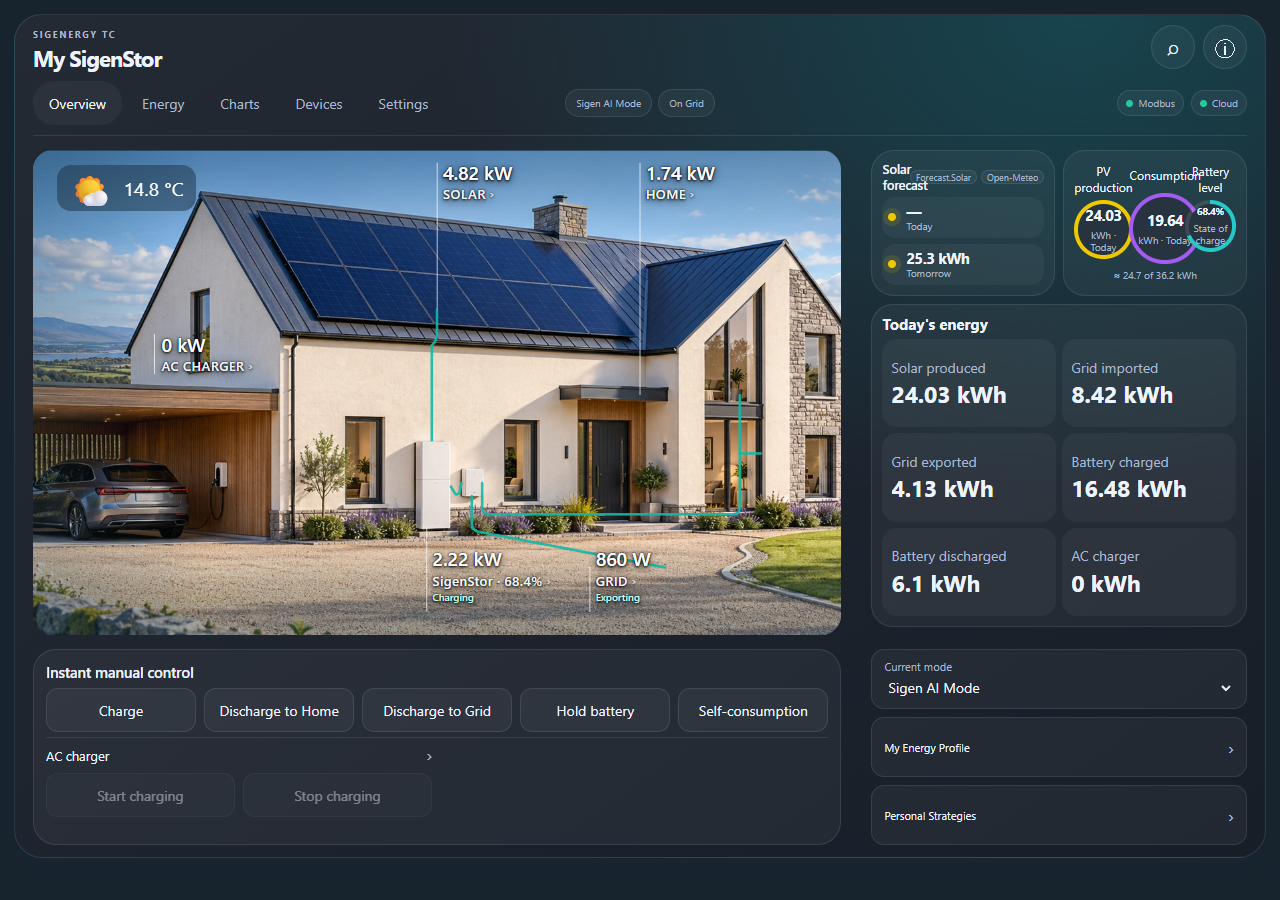
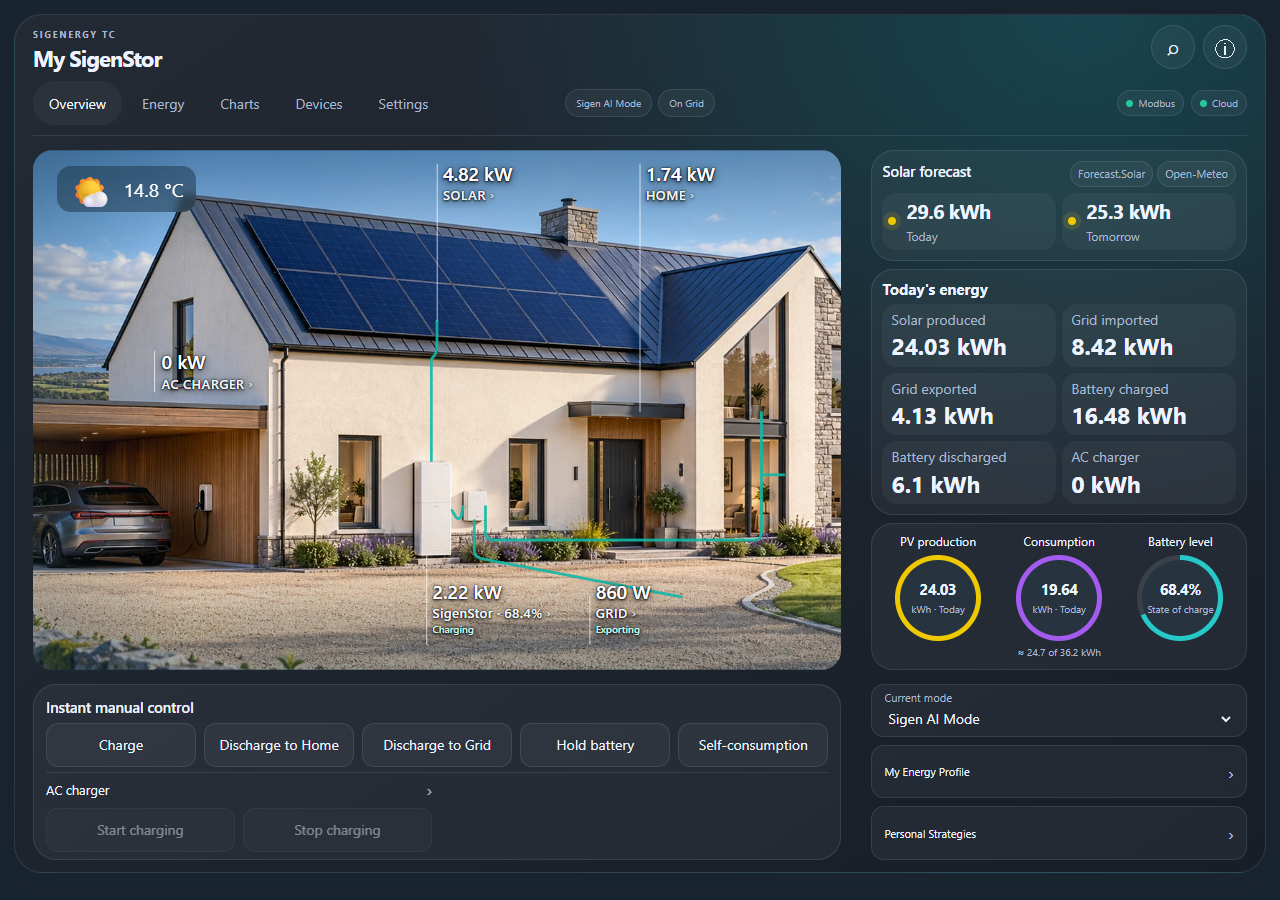
Fix tablet sidebar sizing and screenshot layout in Alpha 0.2.1 (#3)

diff --git a/custom_components/sigen_hybrid/frontend/sigen-hybrid-navigation.js b/custom_components/sigen_hybrid/frontend/sigen-hybrid-navigation.js
@@ -1,11 +1,11 @@
 /* SPDX-License-Identifier: GPL-3.0-only */
-import { renderDeviceDetail, solarStringSeries, DETAIL_STYLE } from './sigen-hybrid-details.js?v=0.2.0';
-import { renderSettingsDetail, collectSettings, SETTINGS_STYLE, SETTINGS_ROUTES, CHART_CHOICES, DEFAULT_CHART_SELECTION, DISPLAY_MODULES, DISPLAY_PRESETS, HOMEPAGE_APPEARANCES, HOMEPAGE_BACKGROUNDS, homepageBackground, displayDefaults, encodeChargerScheduleId, decodeChargerScheduleId, bindTariffEditor, bindStrategyEditor, OPERATING_MODES, observedOperatingMode, renderOverviewModeControl, strategyExportEligibility } from './sigen-hybrid-settings.js?v=0.2.0';
-import { periodRange, dateAt, shiftDate, toCSV, preserveChartScroll } from './sigen-hybrid-charts.js?v=0.2.0';
-import { renderSummaryWidget, renderSummaryDetail, WIDGET_ROUTES, WIDGET_STYLE } from './sigen-hybrid-widgets.js?v=0.2.0';
-import { ENERGY_ROUTES, renderEnergyProfile, ENERGY_STYLE, ownerSettingTarget, renderOwnerSetting, collectOwnerSetting, bindOwnerSettingForm } from './sigen-hybrid-energy.js?v=0.2.0';
-import { renderChargingEnergy, renderTodayEnergy, renderBatteryLevel, renderMobilePower, renderChargerControls } from './sigen-hybrid-overview.js?v=0.2.0';
-import { modeChoices, selectedMode, nativeModeChoices } from './sigen-hybrid-settings.js?v=0.2.0';
+import { renderDeviceDetail, solarStringSeries, DETAIL_STYLE } from './sigen-hybrid-details.js?v=0.2.1';
+import { renderSettingsDetail, collectSettings, SETTINGS_STYLE, SETTINGS_ROUTES, CHART_CHOICES, DEFAULT_CHART_SELECTION, DISPLAY_MODULES, DISPLAY_PRESETS, HOMEPAGE_APPEARANCES, HOMEPAGE_BACKGROUNDS, homepageBackground, displayDefaults, encodeChargerScheduleId, decodeChargerScheduleId, bindTariffEditor, bindStrategyEditor, OPERATING_MODES, observedOperatingMode, renderOverviewModeControl, strategyExportEligibility } from './sigen-hybrid-settings.js?v=0.2.1';
+import { periodRange, dateAt, shiftDate, toCSV, preserveChartScroll } from './sigen-hybrid-charts.js?v=0.2.1';
+import { renderSummaryWidget, renderSummaryDetail, WIDGET_ROUTES, WIDGET_STYLE } from './sigen-hybrid-widgets.js?v=0.2.1';
+import { ENERGY_ROUTES, renderEnergyProfile, ENERGY_STYLE, ownerSettingTarget, renderOwnerSetting, collectOwnerSetting, bindOwnerSettingForm } from './sigen-hybrid-energy.js?v=0.2.1';
+import { renderChargingEnergy, renderTodayEnergy, renderBatteryLevel, renderMobilePower, renderChargerControls } from './sigen-hybrid-overview.js?v=0.2.1';
+import { modeChoices, selectedMode, nativeModeChoices } from './sigen-hybrid-settings.js?v=0.2.1';
 
 const escape = value => String(value ?? '').replace(/[&<>"']/g, c => ({ '&':'&amp;', '<':'&lt;', '>':'&gt;', '"':'&quot;', "'":'&#39;' })[c]);
 
@@ -335,25 +335,8 @@ main:has(>.compact-overview)>.overview-preview-toolbar button{min-height:26px;pa
 .compact-overview .overview-side-module .tile{padding:7px;min-height:42px}
 .compact-overview .overview-side-module .tile strong{font-size:17px}
 .compact-overview .overview-side-module .tile small{font-size:10px}
-.compact-overview .overview-summary-stack{grid-template-columns:repeat(2,minmax(0,1fr));grid-template-rows:auto minmax(0,1fr);gap:8px}
-.compact-overview .overview-summary-stack>.overview-side-module:first-child{grid-column:1;grid-row:1}
-.compact-overview .overview-summary-stack>.overview-side-module:nth-child(2){grid-column:1/-1;grid-row:2}
-.compact-overview .overview-summary-stack>.overview-side-module:nth-child(3){grid-column:2;grid-row:1}
-.compact-overview .overview-summary-stack>.overview-side-module:first-child>.panel{padding:6px}
-.compact-overview .overview-summary-stack>.overview-side-module:first-child .section-title{display:grid;grid-template-columns:minmax(0,1fr) auto;gap:2px;margin-bottom:4px}
-.compact-overview .overview-summary-stack>.overview-side-module:first-child h2{font-size:13px;margin:0}
-.compact-overview .overview-summary-stack>.overview-side-module:first-child .detail-launch{grid-column:2;grid-row:1;min-height:20px;padding:0 3px;line-height:1.2}
-.compact-overview .overview-summary-stack>.overview-side-module:first-child .badge{grid-column:1/-1;grid-row:2;justify-self:start;font-size:9px;padding:1px 5px;line-height:1.2}
-.compact-overview .overview-summary-stack>.overview-side-module:first-child .mini-grid{grid-template-columns:minmax(0,1fr)}
-.compact-overview .overview-summary-stack>.overview-side-module:first-child .tile{min-height:0;padding:3px;gap:5px}
-.compact-overview .overview-summary-stack>.overview-side-module:first-child .tile>span{display:grid;gap:1px}
-.compact-overview .overview-summary-stack>.overview-side-module:first-child .tile strong{font-size:15px;line-height:1.15;margin:0}
-.compact-overview .overview-summary-stack>.overview-side-module:first-child .tile small{font-size:10px;line-height:1.1;margin:0}
-.compact-overview .overview-summary-stack .overview-circle-grid{gap:4px}
-.compact-overview .overview-summary-stack .overview-circle-panel{height:100%;display:flex;flex-direction:column;justify-content:center}
-.compact-overview .overview-summary-stack .overview-circle-label{font-size:9px;min-height:24px}
-.compact-overview .overview-summary-stack .overview-summary-ring{padding:4px}
-.compact-overview .overview-summary-stack .overview-ring-centre small{font-size:7px}
+.compact-overview .overview-summary-stack{grid-template-columns:minmax(0,1fr);grid-template-rows:auto minmax(0,1fr) auto;gap:8px}
+.compact-overview .overview-summary-stack>.overview-side-module{grid-column:auto;grid-row:auto}
 .compact-overview .overview-energy-metric{min-height:42px;padding:5px 7px}
 .compact-overview .overview-energy-metric small{font-size:10px;line-height:1.15;margin-bottom:3px}
 .compact-overview .overview-energy-metric strong{font-size:16px}
@@ -421,6 +404,13 @@ ha-card.embedded-shell{--sigen-sticky-offset:0px;border-radius:16px!important;he
 .compact-overview.overview-grid.overview-aligned-controls{grid-template-rows:minmax(0,1fr) 196px!important}.compact-overview.overview-aligned-controls>.hero{grid-template-rows:subgrid!important}.compact-overview .main-display-stage[data-display=photo],.compact-overview .main-display-stage[data-display=flow]{max-height:none;align-self:stretch}.compact-overview .overview-summary-stack{grid-template-rows:auto minmax(0,1fr) auto}.compact-overview .overview-side-module>.panel{padding:10px!important}.compact-overview .overview-forecast-panel .mini-grid{gap:8px}.compact-overview .overview-energy-metric{min-height:48px;padding:7px 9px}.compact-overview .overview-energy-metric small{font-size:14px;line-height:1.3}.compact-overview .overview-energy-metric strong{font-size:23px}.compact-overview .overview-summary-ring{max-width:86px!important}.compact-overview .overview-circle-label{font-size:12px!important}.compact-overview .overview-circle-panel{padding:10px!important}.compact-overview .overview-primary-controls>.panel{padding:12px!important}.compact-overview .overview-charger-controls{margin-top:5px;padding-top:5px}.compact-overview .overview-charger-heading{padding-bottom:6px}.compact-overview .overview-device-links{grid-template-rows:repeat(3,minmax(0,1fr))!important}ha-card.embedded-shell>header{padding:10px 18px}ha-card.embedded-shell>header .eyebrow{display:none}ha-card.embedded-shell>header>div:first-child{display:flex;align-items:center;gap:12px}ha-card.embedded-shell>header h1{font-size:22px;margin:0}ha-card.embedded-shell>header .connection-strip{margin:0}.compact-overview [data-display-module=forecast] .tile{min-height:50px;padding:6px!important;gap:10px!important}.compact-overview [data-display-module=forecast] .tile strong{font-size:20px;line-height:24px}.compact-overview [data-display-module=forecast] .tile small{font-size:12px;line-height:16px}
 }
 
+/* Short landscape displays may scroll vertically; summary values must never overlap. */
+@media(max-height:900px){@container sigen-card (min-width:950px){
+ha-card:has(main[data-view=overview]>.compact-overview){height:auto;min-height:calc(100dvh - 56px)}
+.compact-overview.overview-grid.overview-aligned-controls{grid-template-rows:minmax(min-content,1fr) 176px!important}
+.compact-overview .overview-summary-stack{min-height:min-content;grid-template-rows:auto minmax(min-content,1fr) auto}
+.compact-overview .overview-side-module[data-display-module=today]{min-height:min-content}
+}}
 ha-card.standalone-card{height:auto!important;min-width:0;max-width:100%;display:block!important;border-radius:20px;overflow:hidden}ha-card.standalone-card>main{display:block!important;padding:0!important;min-width:0}ha-card.standalone-card main>.panel{border:0;background:transparent;margin:0;padding:16px}.standalone-card .mobile-power-grid{display:grid;grid-template-columns:repeat(2,minmax(0,1fr));gap:8px}.standalone-card .mobile-power-grid button{min-height:76px;border:1px solid var(--line);border-radius:14px;background:var(--surface);color:var(--ink);font:inherit;padding:12px;display:flex;flex-direction:column;align-items:flex-start;text-align:left;min-width:0}.standalone-card .mobile-power-grid span{font-size:13px;color:var(--muted)}.standalone-card .mobile-power-grid strong{font-size:23px}.standalone-card .mobile-power-grid small{font-size:12px;color:var(--muted)}.standalone-card .control-buttons{display:grid!important;grid-template-columns:repeat(auto-fit,minmax(130px,1fr))!important;gap:8px}.standalone-card .control-buttons button{font-size:14px!important;min-height:48px!important;line-height:1.3;padding:9px 10px}.standalone-card [data-controls-layout=vertical] .battery-control-buttons{grid-template-columns:1fr!important}.standalone-card [data-controls-layout=horizontal] .battery-control-buttons{grid-template-columns:repeat(auto-fit,minmax(100px,1fr))!important}.standalone-card [data-density=compact] .control-buttons button{min-height:44px!important;font-size:13px!important}.standalone-card [data-density=compact]>.panel{padding:12px}.standalone-card .overview-charger-controls{grid-template-columns:1fr;gap:12px}.standalone-card .overview-mode-control{font-size:14px;padding:12px}.standalone-card .overview-mode-control select{min-height:44px}.standalone-links{display:grid;grid-template-columns:repeat(2,minmax(0,1fr));gap:8px;margin-top:10px}.standalone-device-reading{display:grid;grid-template-columns:1fr 1fr auto;align-items:center;gap:12px;width:100%;font:inherit;background:var(--surface);color:var(--ink);border:1px solid var(--line);border-radius:14px;padding:14px;text-align:left}.standalone-device-reading span{min-width:0}.standalone-device-reading small{display:block;font-size:12px;color:var(--muted)}.standalone-device-reading strong{display:block;font-size:22px}.standalone-card .connection-strip{justify-content:space-between;margin:0}.standalone-card .connection-indicator{font-size:13px!important;min-height:44px!important;padding:10px!important;border:1px solid var(--line)!important;background:var(--surface)!important}.standalone-card .overview-circle-panel{margin:0}.standalone-card .overview-energy-metrics{grid-template-columns:repeat(2,minmax(0,1fr));gap:8px}.standalone-card .overview-energy-metric{min-height:78px}.standalone-card .overview-energy-metric small{font-size:13px}.standalone-card .overview-energy-metric strong{font-size:23px}.standalone-card .detail-link{min-height:44px}.standalone-card .mini-grid .tile{min-height:84px}.standalone-card .battery-summary{padding:4px 0}.standalone-card h2{font-size:19px}
 @container sigen-card (min-width:600px){.standalone-card .mobile-power-grid{grid-template-columns:repeat(3,minmax(0,1fr))}.standalone-card .overview-energy-metrics{grid-template-columns:repeat(3,minmax(0,1fr))}.standalone-card .overview-charger-controls{grid-template-columns:repeat(2,minmax(0,1fr))}}
 @container sigen-card (max-width:340px){.standalone-card .mobile-power-grid strong,.standalone-card .overview-energy-metric strong{font-size:19px}.standalone-card .overview-energy-metric small{font-size:12px}.standalone-card .battery-summary{gap:12px}.standalone-card .standalone-device-reading{grid-template-columns:1fr auto}.standalone-device-reading span:nth-child(2){grid-row:2}.standalone-card .overview-summary-ring{max-width:70px}.standalone-card .overview-ring-centre strong{font-size:13px!important}}

diff --git a/custom_components/sigen_hybrid/frontend/sigen-hybrid-overview.js b/custom_components/sigen_hybrid/frontend/sigen-hybrid-overview.js
@@ -117,7 +117,7 @@ export function renderBatteryLevel(ctx = {}) {
 }
 
 export const OVERVIEW_STYLE = `
-.overview-circle-grid>.overview-circle-button{display:grid}.overview-circle-grid{display:grid;grid-template-columns:repeat(3,minmax(0,1fr));gap:9px}.overview-circle-button{appearance:none;display:grid;align-content:start;justify-items:center;gap:10px;min-width:0;width:100%;border:0;background:transparent;color:inherit;padding:0;font:inherit;cursor:pointer}.overview-circle-label{font-size:11px;line-height:1.3;min-height:28px;text-align:center;display:grid;place-items:center}.overview-summary-ring{display:grid;place-items:center;width:100%;aspect-ratio:1;border-radius:50%;padding:8px;background:conic-gradient(var(--ring-tone) var(--ring-fill),var(--overview-track,#dce8ef) 0)}.overview-ring-centre{display:flex;flex-direction:column;align-items:center;justify-content:center;width:100%;height:100%;border-radius:50%;background:var(--overview-ring-bg,#f1f6fa);min-width:0;text-align:center}.overview-circle-panel .overview-summary-ring strong,.overview-circle-panel .overview-summary-ring .overview-battery-soc{font-size:clamp(10px,4.3cqi,19px);line-height:1.2;font-weight:650;letter-spacing:-.03em}.overview-ring-centre small{font-size:clamp(7px,2.5cqi,10px);margin-top:5px;line-height:1.2;color:var(--muted)}.overview-circle-panel .overview-circle-storage{font-size:11px;text-align:center;margin-top:12px;line-height:1.4}.night .overview-circle-panel{--overview-ring-bg:#27333f}.overview-circle-button:focus-visible{outline:2px solid #16bfc4;outline-offset:4px;border-radius:12px}.overview-summary-ring.is-unavailable{background:var(--overview-track,#dce8ef)}@container(max-width:240px){.overview-circle-grid{gap:5px}.overview-summary-ring{padding:5px}.overview-circle-label{font-size:9px}.overview-ring-centre small{font-size:7px}}
+.overview-circle-grid>.overview-circle-button{display:grid}.overview-circle-grid{display:grid;grid-template-columns:repeat(3,minmax(0,1fr));gap:9px}.overview-circle-button{appearance:none;display:grid;align-content:start;justify-items:center;gap:10px;min-width:0;width:100%;border:0;background:transparent;color:inherit;padding:0;font:inherit;cursor:pointer}.overview-circle-label{font-size:11px;line-height:1.3;min-height:28px;text-align:center;display:grid;place-items:center}.overview-summary-ring{display:grid;place-items:center;box-sizing:border-box;min-width:0;max-width:100%;width:100%;aspect-ratio:1;border-radius:50%;padding:8px;background:conic-gradient(var(--ring-tone) var(--ring-fill),var(--overview-track,#dce8ef) 0)}.overview-ring-centre{display:flex;flex-direction:column;align-items:center;justify-content:center;width:100%;height:100%;border-radius:50%;background:var(--overview-ring-bg,#f1f6fa);min-width:0;text-align:center}.overview-circle-panel .overview-summary-ring strong,.overview-circle-panel .overview-summary-ring .overview-battery-soc{font-size:clamp(10px,4.3cqi,19px);line-height:1.2;font-weight:650;letter-spacing:-.03em}.overview-ring-centre small{font-size:clamp(7px,2.5cqi,10px);margin-top:5px;line-height:1.2;color:var(--muted)}.overview-circle-panel .overview-circle-storage{font-size:11px;text-align:center;margin-top:12px;line-height:1.4}.night .overview-circle-panel{--overview-ring-bg:#27333f}.overview-circle-button:focus-visible{outline:2px solid #16bfc4;outline-offset:4px;border-radius:12px}.overview-summary-ring.is-unavailable{background:var(--overview-track,#dce8ef)}@container(max-width:240px){.overview-circle-grid{gap:5px}.overview-summary-ring{padding:5px}.overview-circle-label{font-size:9px}.overview-ring-centre small{font-size:7px}}
 .overview-energy-five>.overview-energy-metric:last-child{grid-column:1/-1}.overview-charging-total{padding:4px 0 24px}.overview-charging-total small{display:block;color:var(--muted,#748595);font-size:14px;margin-bottom:8px}.overview-charging-total strong{display:block;font-size:32px;line-height:1.2}.overview-charging-breakdown{display:grid;grid-template-columns:repeat(2,minmax(0,1fr));gap:14px}.overview-charging-breakdown:has(>.overview-charging-channel:only-child){grid-template-columns:1fr}.overview-charging-channel{min-width:0}.overview-charging-channel>sigen-history-chart{display:block;min-width:0;margin-top:14px}.overview-charging-breakdown .overview-energy-metric{width:100%;min-height:104px;padding:18px}.overview-charging-breakdown .overview-energy-metric small{font-size:15px}.overview-charging-breakdown .overview-energy-metric strong{font-size:25px}.night .overview-charging-detail{--overview-tile:#ffffff0b;--overview-tile-hover:#ffffff13}
 @container(max-width:700px){.overview-charging-breakdown{grid-template-columns:1fr}}
 .overview-compact-panel.panel{margin:0;padding:20px;border:1px solid var(--line,#dce7ee);border-radius:22px;background:var(--surface,#f8fcfe);color:var(--ink,#263647);box-shadow:none;min-width:0;box-sizing:border-box}.overview-compact-panel h2{font-size:19px;line-height:1.25;letter-spacing:0;font-weight:650;margin:0 0 16px}.overview-energy-metrics{display:grid;grid-template-columns:repeat(2,minmax(0,1fr));gap:10px}.overview-energy-metric{appearance:none;border:0;border-radius:15px;min-width:0;min-height:78px;padding:12px 13px;text-align:left;background:var(--overview-tile,#edf4f8);color:inherit;font:inherit;cursor:pointer;box-sizing:border-box}.overview-energy-metric small{display:block;color:var(--muted,#748595);font-size:12px;font-weight:450;line-height:1.3;margin:0 0 6px;overflow-wrap:anywhere}.overview-energy-metric strong{display:block;color:inherit;font-size:21px;font-weight:650;line-height:1.2;overflow-wrap:anywhere}.overview-energy-metric:focus-visible,.overview-battery-link:focus-visible{outline:2px solid #16bfc4;outline-offset:3px}.overview-energy-metric:hover{background:var(--overview-tile-hover,#e3eff4)}.overview-battery-link{appearance:none;display:block;width:100%;border:0;background:transparent;padding:0;text-align:left;color:inherit;font:inherit;cursor:pointer}.overview-battery-link h2{margin-bottom:15px}.overview-battery-soc{display:block;font-size:25px;line-height:1.2;font-weight:650}.overview-battery-track{height:12px;overflow:hidden;border-radius:8px;background:var(--overview-track,#dce8ef);margin:15px 0 12px}.overview-battery-track>span{display:block;height:100%;border-radius:inherit;background:linear-gradient(90deg,#1bbbbb,#6cded1)}.overview-battery-track>span[hidden]{display:none}.overview-battery-energy{display:block;font-size:14px;line-height:1.25;color:var(--muted,#748595);font-weight:400}.night .overview-compact-panel{--overview-tile:#ffffff0b;--overview-tile-hover:#ffffff13;--overview-track:#ffffff1a}.overview-compact-panel{container-type:inline-size}@container(max-width:250px){.overview-energy-metric{padding:11px 10px}.overview-energy-metric strong{font-size:18px}.overview-energy-metric small{font-size:11px}}@container(max-width:180px){.overview-energy-metrics{grid-template-columns:1fr}}

diff --git a/custom_components/sigen_hybrid/frontend/sigen-hybrid-card.js b/custom_components/sigen_hybrid/frontend/sigen-hybrid-card.js
@@ -20,14 +20,14 @@
  * OUT OF OR IN CONNECTION WITH THE SOFTWARE OR THE USE OR OTHER DEALINGS IN THE
  * SOFTWARE.
  */
-import { installNavigation, CARD_PRESETS, CARD_CHART_CHOICES } from './sigen-hybrid-navigation.js?v=0.2.0';
-import { WIDGET_ROUTES } from './sigen-hybrid-widgets.js?v=0.2.0';
-import { renderPhotoScene, PHOTO_STYLE } from './sigen-hybrid-photo.js?v=0.2.0';
-import { renderTodayEnergy, renderBatteryLevel, renderChargerControls, renderMobilePower, OVERVIEW_STYLE } from './sigen-hybrid-overview.js?v=0.2.0';
-import { energySankey as buildEnergySankey } from './sigen-hybrid-sankey.js?v=0.2.0';
-import { renderHouseScene, HOUSE_STYLE } from './sigen-hybrid-house.js?v=0.2.0';
-import { renderDeviceOverview, DEVICE_STYLE } from './sigen-hybrid-devices.js?v=0.2.0';
-import { gridConnectionStatus, connectionIndicators, selectReadingState } from './sigen-hybrid-energy.js?v=0.2.0';
+import { installNavigation, CARD_PRESETS, CARD_CHART_CHOICES } from './sigen-hybrid-navigation.js?v=0.2.1';
+import { WIDGET_ROUTES } from './sigen-hybrid-widgets.js?v=0.2.1';
+import { renderPhotoScene, PHOTO_STYLE } from './sigen-hybrid-photo.js?v=0.2.1';
+import { renderTodayEnergy, renderBatteryLevel, renderChargerControls, renderMobilePower, OVERVIEW_STYLE } from './sigen-hybrid-overview.js?v=0.2.1';
+import { energySankey as buildEnergySankey } from './sigen-hybrid-sankey.js?v=0.2.1';
+import { renderHouseScene, HOUSE_STYLE } from './sigen-hybrid-house.js?v=0.2.1';
+import { renderDeviceOverview, DEVICE_STYLE } from './sigen-hybrid-devices.js?v=0.2.1';
+import { gridConnectionStatus, connectionIndicators, selectReadingState } from './sigen-hybrid-energy.js?v=0.2.1';
 export const MAIN_DISPLAYS = Object.freeze({ house: 'House', flow: 'Flow', photo: 'Photo house' });
 const COLORS = { solar: '#efc900', battery: '#26c9c8', grid: '#6694ff', home: '#a45bf0', ac: '#b46767', dc: '#d29420' };
 const LABELS = { solar: 'Solar', battery: 'Battery', grid: 'Grid', home: 'Home', ac: 'AC charger', dc: 'DC charger' };

diff --git a/tools/gallery.html b/tools/gallery.html
@@ -14,6 +14,6 @@ card.setConfig({type:'custom:sigen-hybrid-card',title:'My SigenStor',view:params
 card.hass={states,themes:{darkMode:true},config:{time_zone:'Europe/Dublin',currency:'EUR',unit_system:{temperature:'°C'}},locale:{language:'en',number_format:'language'},user:{is_admin:true},callWS:async()=>{throw Error('Offline documentation example');}};
 card._history=Object.fromEntries(Object.entries(entities).map(([key,id])=>[id,Array.from({length:144},(_,index)=>{const date=new Date();date.setHours(0,index*10,0,0);return {start:date.getTime(),mean:key==='battery_soc'?30+40*Math.sin(Math.PI*index/144)**2:key==='grid_power'?Math.sin(index/8):key==='battery_power'?2*Math.cos(index/12):key==='home_power'?1.6+.5*Math.sin(index/5):key==='solar_power'?Math.max(0,5*Math.sin(Math.PI*(index-36)/72)):0};})]));
 card._config.recorded_history=card._history;
-states[entities.forecast_today].attributes={available:true,series:card._history[entities.solar_power].map(row=>({start:new Date(row.start).toISOString(),end:new Date(row.start+600000).toISOString(),power_kw:row.mean*1.06}))};
+states[entities.forecast_today].attributes={...states[entities.forecast_today].attributes,available:true,series:card._history[entities.solar_power].map(row=>({start:new Date(row.start).toISOString(),end:new Date(row.start+600000).toISOString(),power_kw:row.mean*1.06}))};
 card._render();window.galleryReady=true;
 </script></html>

diff --git a/custom_components/sigen_hybrid/frontend/sigen-hybrid-details.js b/custom_components/sigen_hybrid/frontend/sigen-hybrid-details.js
@@ -1,8 +1,8 @@
 /* SPDX-License-Identifier: GPL-3.0-only
  * Pure device-detail views. Navigation, charts and data access belong to the host.
  */
-import { renderChargerButtons } from './sigen-hybrid-overview.js?v=0.2.0';
-import { renderDeviceGraphic } from './sigen-hybrid-devices.js?v=0.2.0';
+import { renderChargerButtons } from './sigen-hybrid-overview.js?v=0.2.1';
+import { renderDeviceGraphic } from './sigen-hybrid-devices.js?v=0.2.1';
 export const escapeDetailHTML = value => String(value ?? '').replace(/[&<>"']/g, character => ({ '&': '&amp;', '<': '&lt;', '>': '&gt;', '"': '&quot;', "'": '&#39;' })[character]);
 const esc = escapeDetailHTML;
 const absent = value => value === null || value === undefined || typeof value === 'string' && (!value.trim() || ['unknown', 'unavailable', 'none'].includes(value.toLowerCase()));

diff --git a/custom_components/sigen_hybrid/frontend/sigen-hybrid-photo.js b/custom_components/sigen_hybrid/frontend/sigen-hybrid-photo.js
@@ -1,4 +1,4 @@
-import { renderSceneWeather, renderWeatherEffects } from './sigen-hybrid-house.js?v=0.2.0';
+import { renderSceneWeather, renderWeatherEffects } from './sigen-hybrid-house.js?v=0.2.1';
 /*
  * Copyright 2025-2026 Jean-Yves Avenard
  *

diff --git a/docs/screenshots.md b/docs/screenshots.md
@@ -10,6 +10,16 @@ Example readings are illustrative and contain no private account/plant details. 
 
 ![Tablet overview](images/tablet-overview.png)
 
+Smaller landscape and portrait screens retain readable controls and allow vertical scrolling when needed.
+
+<details><summary>Additional tablet layouts</summary>
+
+![Smaller tablet landscape](images/tablet-landscape.png)
+
+![Tablet portrait](images/tablet-portrait.png)
+
+</details>
+
 ## Phone
 
 <img alt="Phone overview" src="images/phone-overview.png" width="412">
@@ -19,3 +29,5 @@ Example readings are illustrative and contain no private account/plant details. 
 ![Charts](images/charts.png)
 
 ![Manual control popup](images/manual-control.png)
+
+To check the documentation examples in a local Chrome installation, install Playwright (`npm install --no-save playwright`) and run `node tools/check_layout.cjs`. The check tests widget containment, ring overlap, forecast headings and horizontal overflow at five desktop/tablet/phone viewport sizes, then refreshes the overview screenshots. These are CSS viewport sizes; the tablet and phone cases also cover higher display pixel density.

diff --git a/docs/installation.md b/docs/installation.md
@@ -12,7 +12,7 @@ Add `https://github.com/mbsintegrations/HomeAssistant-Sigenergy-TC` under HACS c
 
 ## Manual installation
 
-Download `sigenergy-tc-0.2.0.zip` and `SHA256SUMS.txt` from the matching release. Verify the SHA-256 before extraction. Merge the ZIP's `custom_components/sigen_hybrid` into HA's `config/custom_components/sigen_hybrid`; avoid an extra nested folder. Restart HA and use the native setup dialog. Do not copy the whole repository into `custom_components`.
+Download `sigenergy-tc-0.2.1.zip` and `SHA256SUMS.txt` from the matching release. Verify the SHA-256 before extraction. Merge the ZIP's `custom_components/sigen_hybrid` into HA's `config/custom_components/sigen_hybrid`; avoid an extra nested folder. Restart HA and use the native setup dialog. Do not copy the whole repository into `custom_components`.
 
 ## Connections
 

diff --git a/CHANGELOG.md b/CHANGELOG.md
@@ -1,5 +1,12 @@
 # Changelog
 
+## 0.2.1
+
+- Fix the short-height tablet sidebar: forecast, daily energy and battery/energy rings keep their full width rather than being squeezed into half-width boxes.
+- Keep ring padding inside its width, prevent daily energy tiles escaping their card, and allow vertical scrolling on shorter landscape displays.
+- Restore the forecast unit in the documentation fixture and replace affected screenshots. Add a real-browser layout regression check covering five desktop/tablet/phone sizes.
+- Plant control behavior and permissions are unchanged.
+
 ## 0.2.0 — Invitation-only Alpha — 2026-10-30
 
 **Do not install without an invitation from MBS Integrations.** Expanded functional control release; existing installations retain their previous enablement.

diff --git a/docs/cards.md b/docs/cards.md
@@ -20,7 +20,7 @@ These preferences are saved with the configuration and can be changed later. The
 YAML resource users can add the following JavaScript module resource. Storage-mode registration is automatic when no TC resource already exists:
 
 ```text
-/sigen_hybrid/sigen-hybrid-card.js?v=0.2.0
+/sigen_hybrid/sigen-hybrid-card.js?v=0.2.1
 ```
 
 Then add **Sigenergy TC** from the dashboard card picker. Choose the integration configuration in its visual editor. Discovery maps enabled entities belonging to that exact `sigen_hybrid` entry, using entity registry identity rather than guessing entity names. Explicit mappings override discovery, and `null` disables a discovered item.
